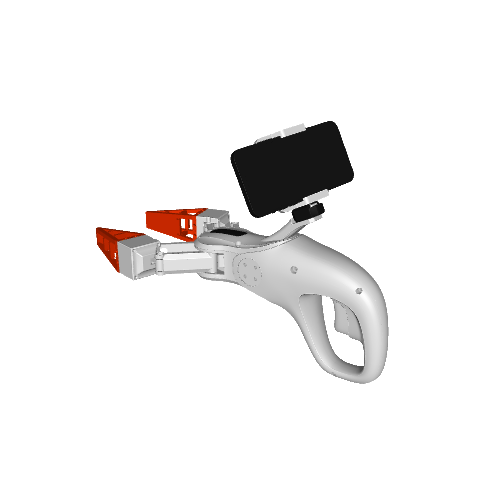
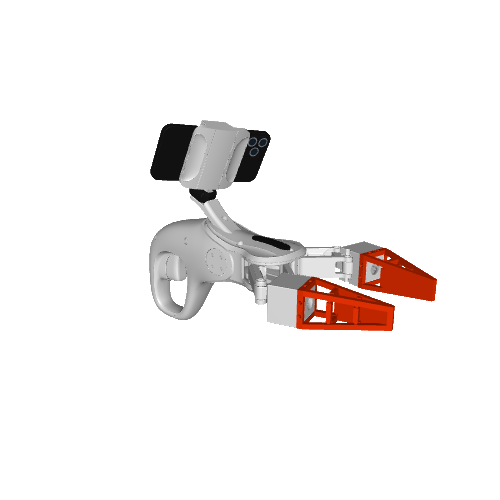
Make the handheld iPhone lenses visible in shaded views

Changed region(s): [[0.18, 0.24, 0.87, 0.78]]

diff --git a/generate_gallery.py b/generate_gallery.py
@@ -158,7 +158,7 @@ AUTO_PADDING = 1.08
 # quat), so we view them from ~20–-30° (front-right of +X).
 # Per-robot view angle override, falling back to VIEW_ANGLES[category].
 VIEW_ANGLE_OVERRIDE = {
-  'asmagiclaw/asmagiclaw_handheld': (125, 20),
+  'asmagiclaw/asmagiclaw_handheld': (-50, 18),
   # Default biomechanical angle catches MS-Human-700 from the side; nudge
   # to a near-frontal 3/4.
   'ms_human_700/MS-Human-700': (20, 15),
